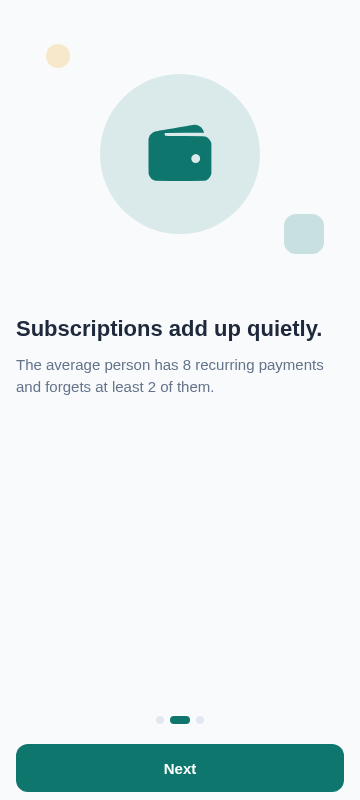
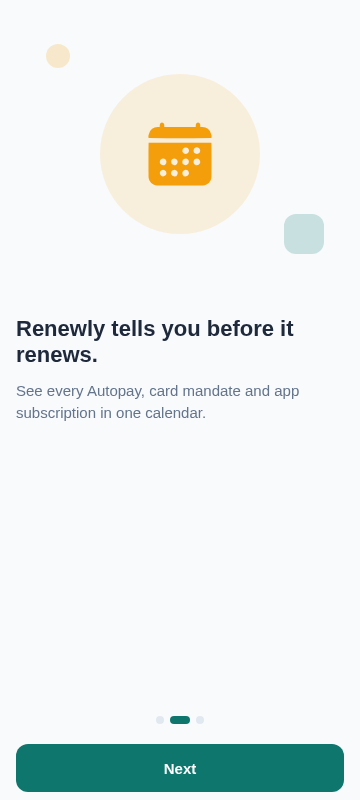
## Flow Board Complete - Built `/app/screenshots/renewly_flow_board.png` (2302×4370) — a Figma-style user-flow diagram: brand header, 6 labelled flow rows (Entry & Auth, Onboarding, Home/Swipe/Savings, Calendar/Detail/Family Split, Add/Alerts/Plus, Dark Mode gallery) with teal arrows and action labe
Next Action Items: none pending — download the board via "Save to GitHub"/code download.
Potential improvement: want a matching one-page product spec PDF (flow board + feature list + design tokens) to hand to stakeholders alongside the wireframes?

Note:
- You are currently working in a dev/preview environment; the browser preview takes 20–30 seconds to refresh.
- To view the app on mobile, scan the QR code beside the preview panel — this opens the app in Expo Go.
- Once you've made decent progress, deploy to production: click Publish (top-right) → Deploy your app → Generate iOS and Android builds.
- Some native features (notifications, audio, camera) can only be tested on real devices after you deploy and generate a build.

Changed region(s): [[0.0306, 0.375, 0.8861, 0.5312], [0.275, 0.0938, 0.7333, 0.3125], [0.3667, 0.375, 0.3972, 0.4062]]

diff --git a/frontend/app/onboarding.tsx b/frontend/app/onboarding.tsx
@@ -65,6 +65,7 @@ export default function Onboarding() {
         pagingEnabled
         showsHorizontalScrollIndicator={false}
         keyExtractor={(it) => it.key}
+        getItemLayout={(_, index) => ({ length: width, offset: width * index, index })}
         onMomentumScrollEnd={(e) => setI(Math.round(e.nativeEvent.contentOffset.x / width))}
         renderItem={({ item }) => {
           const accent = item.accent === 'amber' ? C.amber : C.teal;

diff --git a/scripts/build_flow_board.py b/scripts/build_flow_board.py
@@ -1,0 +1,196 @@
+"""Stitch Renewly wireframe screenshots into a single presentation-ready flow board PNG."""
+import os
+from PIL import Image, ImageDraw, ImageFont
+
+SRC = "/app/screenshots"
+OUT = "/app/screenshots/renewly_flow_board.png"
+
+# ---- palette ----
+BG = (248, 250, 252)
+TEAL = (15, 118, 110)
+AMBER = (245, 158, 11)
+SLATE = (30, 41, 59)
+SUB = (100, 116, 139)
+CARD_BORDER = (226, 232, 240)
+SHADOW = (15, 23, 42, 28)
+
+# ---- fonts ----
+FD = "/usr/share/fonts/truetype/dejavu"
+def font(size, bold=False):
+    try:
+        return ImageFont.truetype(f"{FD}/DejaVuSans{'-Bold' if bold else ''}.ttf", size)
+    except OSError:
+        return ImageFont.load_default()
+
+F_TITLE = font(52, True)
+F_TAG = font(24)
+F_SECTION = font(30, True)
+F_CAP = font(19, True)
+F_ARROW = font(17)
+F_NOTE = font(19)
+
+# ---- layout constants ----
+THUMB_W, THUMB_H = 234, 520          # main rows (scaled from 360x800)
+DARK_W, DARK_H = 189, 420            # dark mode gallery
+ARROW_W = 110
+GROUP_GAP = 90
+MARGIN = 80
+CAP_H = 46
+SECTION_H = 64
+ROW_GAP = 70
+CORNER = 18
+
+# Row spec: list of tokens
+#   ("img", filename, caption)  ("arrow", label)  ("gap",)  ("note", text)
+ROWS = [
+    ("1 · Entry & Auth", THUMB_W, THUMB_H, [
+        ("img", "01_landing.png", "01 · Landing"),
+        ("arrow", "Create account"),
+        ("img", "02_auth_signup.png", "02 · Sign up"),
+        ("arrow", "switch mode"),
+        ("img", "03_auth_signin.png", "03 · Sign in"),
+        ("note", "Sign up → Onboarding\nSign in → Home"),
+    ]),
+    ("2 · Onboarding (after sign-up)", THUMB_W, THUMB_H, [
+        ("img", "04_onboarding_1.png", "04 · Frame 1"),
+        ("arrow", "Next"),
+        ("img", "05_onboarding_2.png", "05 · Frame 2"),
+        ("arrow", "Next"),
+        ("img", "06_onboarding_3.png", "06 · Frame 3"),
+        ("note", "Allow SMS / Skip\n→ Home"),
+    ]),
+    ("3 · Home · Swipe Actions · Savings", THUMB_W, THUMB_H, [
+        ("img", "07_home.png", "07 · Home"),
+        ("arrow", "swipe left"),
+        ("img", "08_home_swipe_actions.png", "08 · Snooze / Cancel"),
+        ("arrow", "mark cancelled"),
+        ("img", "16_savings.png", "16 · Savings tracker"),
+    ]),
+    ("4 · Calendar · Detail · Family Split", THUMB_W, THUMB_H, [
+        ("img", "09_calendar.png", "09 · Calendar"),
+        ("arrow", "tap 19 Sep"),
+        ("img", "10_calendar_day_sheet.png", "10 · Day sheet"),
+        ("arrow", "open Netflix"),
+        ("img", "13_detail_family_split.png", "13 · Detail + split"),
+        ("arrow", "How to cancel"),
+        ("img", "14_detail_cancel_sheet.png", "14 · Cancel sheet"),
+    ]),
+    ("5 · Add · Alerts · Renewly Plus", THUMB_W, THUMB_H, [
+        ("img", "11_add_pick_service.png", "11 · Add — pick"),
+        ("arrow", "pick service"),
+        ("img", "12_add_details.png", "12 · Add — details"),
+        ("gap",),
+        ("img", "15_alerts.png", "15 · Alerts"),
+        ("gap",),
+        ("img", "17_settings.png", "17 · Settings"),
+        ("arrow", "Renewly Plus"),
+        ("img", "18_paywall.png", "18 · Paywall"),
+    ]),
+    ("6 · Dark Mode", DARK_W, DARK_H, [
+        ("img", "19_dark_landing.png", "19 · Landing"),
+        ("gap",),
+        ("img", "20_dark_auth.png", "20 · Auth"),
+        ("gap",),
+        ("img", "21_dark_home.png", "21 · Home"),
+        ("gap",),
+        ("img", "22_dark_calendar.png", "22 · Calendar"),
+        ("gap",),
+        ("img", "23_dark_detail.png", "23 · Detail"),
+        ("gap",),
+        ("img", "24_dark_savings.png", "24 · Savings"),
+        ("gap",),
+        ("img", "25_dark_settings.png", "25 · Settings"),
+        ("gap",),
+        ("img", "26_dark_paywall.png", "26 · Paywall"),
+    ]),
+]
+
+def row_width(tw, tokens):
+    w = 0
+    for t in tokens:
+        if t[0] == "img": w += tw
+        elif t[0] == "arrow": w += ARROW_W
+        elif t[0] == "gap": w += GROUP_GAP
+        elif t[0] == "note": w += 300
+    return w
+
+def rounded_thumb(path, w, h):
+    img = Image.open(path).convert("RGB").resize((w, h), Image.LANCZOS)
+    mask = Image.new("L", (w, h), 0)
+    ImageDraw.Draw(mask).rounded_rectangle([0, 0, w - 1, h - 1], CORNER, fill=255)
+    out = Image.new("RGBA", (w, h), (0, 0, 0, 0))
+    out.paste(img, (0, 0), mask)
+    return out
+
+def draw_arrow(d, x0, x1, y, label):
+    d.line([x0 + 14, y, x1 - 20, y], fill=TEAL, width=4)
+    d.polygon([(x1 - 20, y - 9), (x1 - 20, y + 9), (x1 - 4, y)], fill=TEAL)
+    if label:
+        tw = d.textlength(label, font=F_ARROW)
+        d.text(((x0 + x1 - tw) / 2, y - 34), label, font=F_ARROW, fill=SUB)
+
+HEADER_H = 190
+total_w = max(row_width(tw, tokens) for _, tw, _, tokens in ROWS) + 2 * MARGIN
+total_h = HEADER_H + sum(SECTION_H + th + CAP_H + ROW_GAP for _, _, th, _ in ROWS) + MARGIN
+
+board = Image.new("RGB", (total_w, total_h), BG)
+d = ImageDraw.Draw(board, "RGBA")
+
+# subtle dot grid
+for gx in range(MARGIN, total_w - MARGIN, 48):
+    for gy in range(HEADER_H, total_h - MARGIN, 48):
+        d.ellipse([gx, gy, gx + 2, gy + 2], fill=(203, 213, 225, 90))
+
+# ---- header ----
+# brand mark
+bx, by, bs = MARGIN, 52, 76
+d.rounded_rectangle([bx, by, bx + bs, by + bs], 21, fill=TEAL)
+d.text((bx + bs / 2 - d.textlength("R", font=font(40, True)) / 2, by + 14), "R", font=font(40, True), fill=(255, 255, 255))
+d.ellipse([bx + bs - 22, by + 10, bx + bs - 10, by + 22], fill=AMBER)
+d.text((bx + bs + 28, by - 4), "Renewly — User Flow", font=F_TITLE, fill=SLATE)
+d.text((bx + bs + 28, by + 58), "UPI-first subscription tracker · clickable prototype · 360×800 · light + dark", font=F_TAG, fill=SUB)
+
+# ---- rows ----
+y = HEADER_H
+for section, tw, th, tokens in ROWS:
+    # section label with teal tick
+    d.rounded_rectangle([MARGIN, y + 4, MARGIN + 8, y + 34], 4, fill=TEAL)
+    d.text((MARGIN + 24, y), section, font=F_SECTION, fill=SLATE)
+    y += SECTION_H
+    x = MARGIN
+    mid_y = y + th // 2
+    for t in tokens:
+        if t[0] == "img":
+            fp = os.path.join(SRC, t[1])
+            thumb = rounded_thumb(fp, tw, th)
+            # shadow
+            d.rounded_rectangle([x + 6, y + 10, x + tw + 6, y + th + 10], CORNER, fill=SHADOW)
+            board.paste(thumb, (x, y), thumb)
+            d.rounded_rectangle([x, y, x + tw - 1, y + th - 1], CORNER, outline=CARD_BORDER, width=2)
+            cap = t[2]
+            cw = d.textlength(cap, font=F_CAP)
+            d.text((x + (tw - cw) / 2, y + th + 14), cap, font=F_CAP, fill=SLATE)
+            x += tw
+        elif t[0] == "arrow":
+            draw_arrow(d, x, x + ARROW_W, mid_y, t[1])
+            x += ARROW_W
+        elif t[0] == "gap":
+            x += GROUP_GAP
+        elif t[0] == "note":
+            nx = x + 40
+            lines = t[1].split("\n")
+            lh = 30
+            ny = mid_y - lh * len(lines) / 2
+            box_w = max(d.textlength(l, font=F_NOTE) for l in lines) + 40
+            d.rounded_rectangle([nx, ny - 18, nx + box_w, ny + lh * len(lines) + 14], 12,
+                                fill=(230, 244, 242), outline=(15, 118, 110, 120), width=2)
+            for i, l in enumerate(lines):
+                d.text((nx + 20, ny + i * lh), l, font=F_NOTE, fill=TEAL)
+            x += 300
+    y += th + CAP_H + ROW_GAP
+
+# footer
+d.text((MARGIN, total_h - 56), "Renewly · Know before it renews. · Prototype flow board", font=F_NOTE, fill=SUB)
+
+board.save(OUT, "PNG", optimize=True)
+print("saved", OUT, board.size)

diff --git a/scripts/capture_wireframes.py b/scripts/capture_wireframes.py
@@ -58,10 +58,12 @@ async def main():
         await page.wait_for_selector('[data-testid="onboarding-cta-0"]', timeout=15000)
         await shot(page, "04_onboarding_1")
         await page.click('[data-testid="onboarding-cta-0"]', force=True)
-        await page.wait_for_timeout(600)
+        await page.wait_for_selector('text=Renewly tells you before it renews.', timeout=10000)
+        await page.wait_for_timeout(1500)  # let scroll animation settle
         await shot(page, "05_onboarding_2")
         await page.click('[data-testid="onboarding-cta-1"]', force=True)
-        await page.wait_for_timeout(600)
+        await page.wait_for_selector('text=Let us do the finding.', timeout=10000)
+        await page.wait_for_timeout(1500)
         await shot(page, "06_onboarding_3")
 
         await goto(page, "/home")

diff --git a/screenshots/README.md b/screenshots/README.md
@@ -1,7 +1,10 @@
 # Renewly — Prototype Wireframes
 
 26 screenshots captured at **360 × 800** (Android Large canvas), light + dark themes.
-Regenerate anytime with `python /app/scripts/capture_wireframes.py`.
+
+**`renewly_flow_board.png`** — single presentation-ready flow board (2302×4370): all 6 flows with arrows, action labels and dark-mode gallery.
+
+Regenerate: `python /app/scripts/capture_wireframes.py` (screens) then `python /app/scripts/build_flow_board.py` (board).
 
 ## Flow 1 — Entry & Auth (mock)
 | # | File | Screen |
